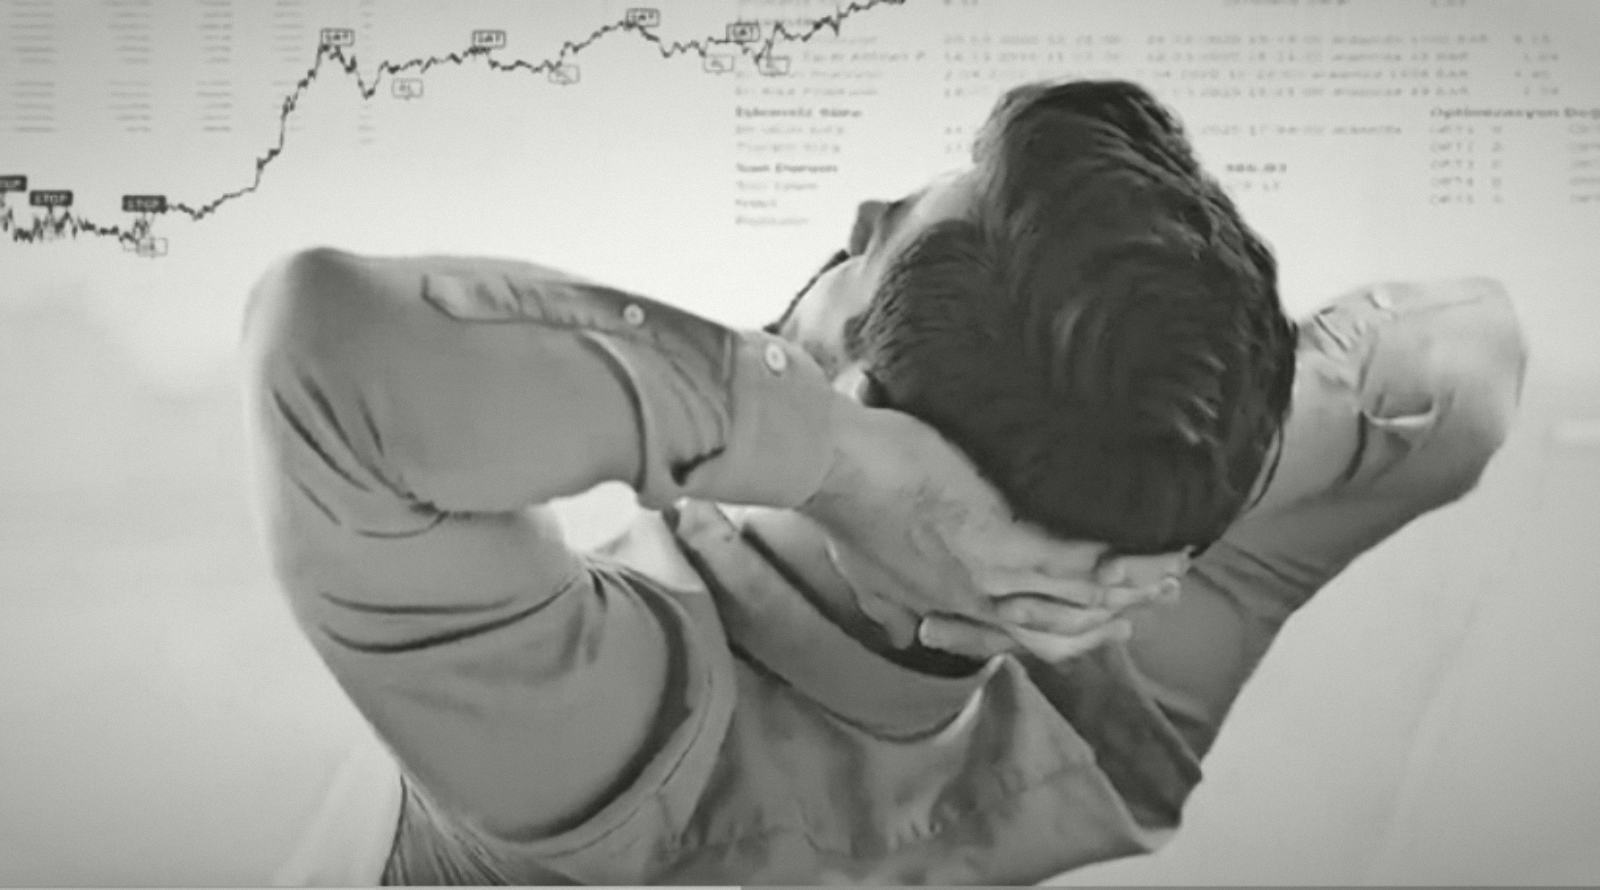
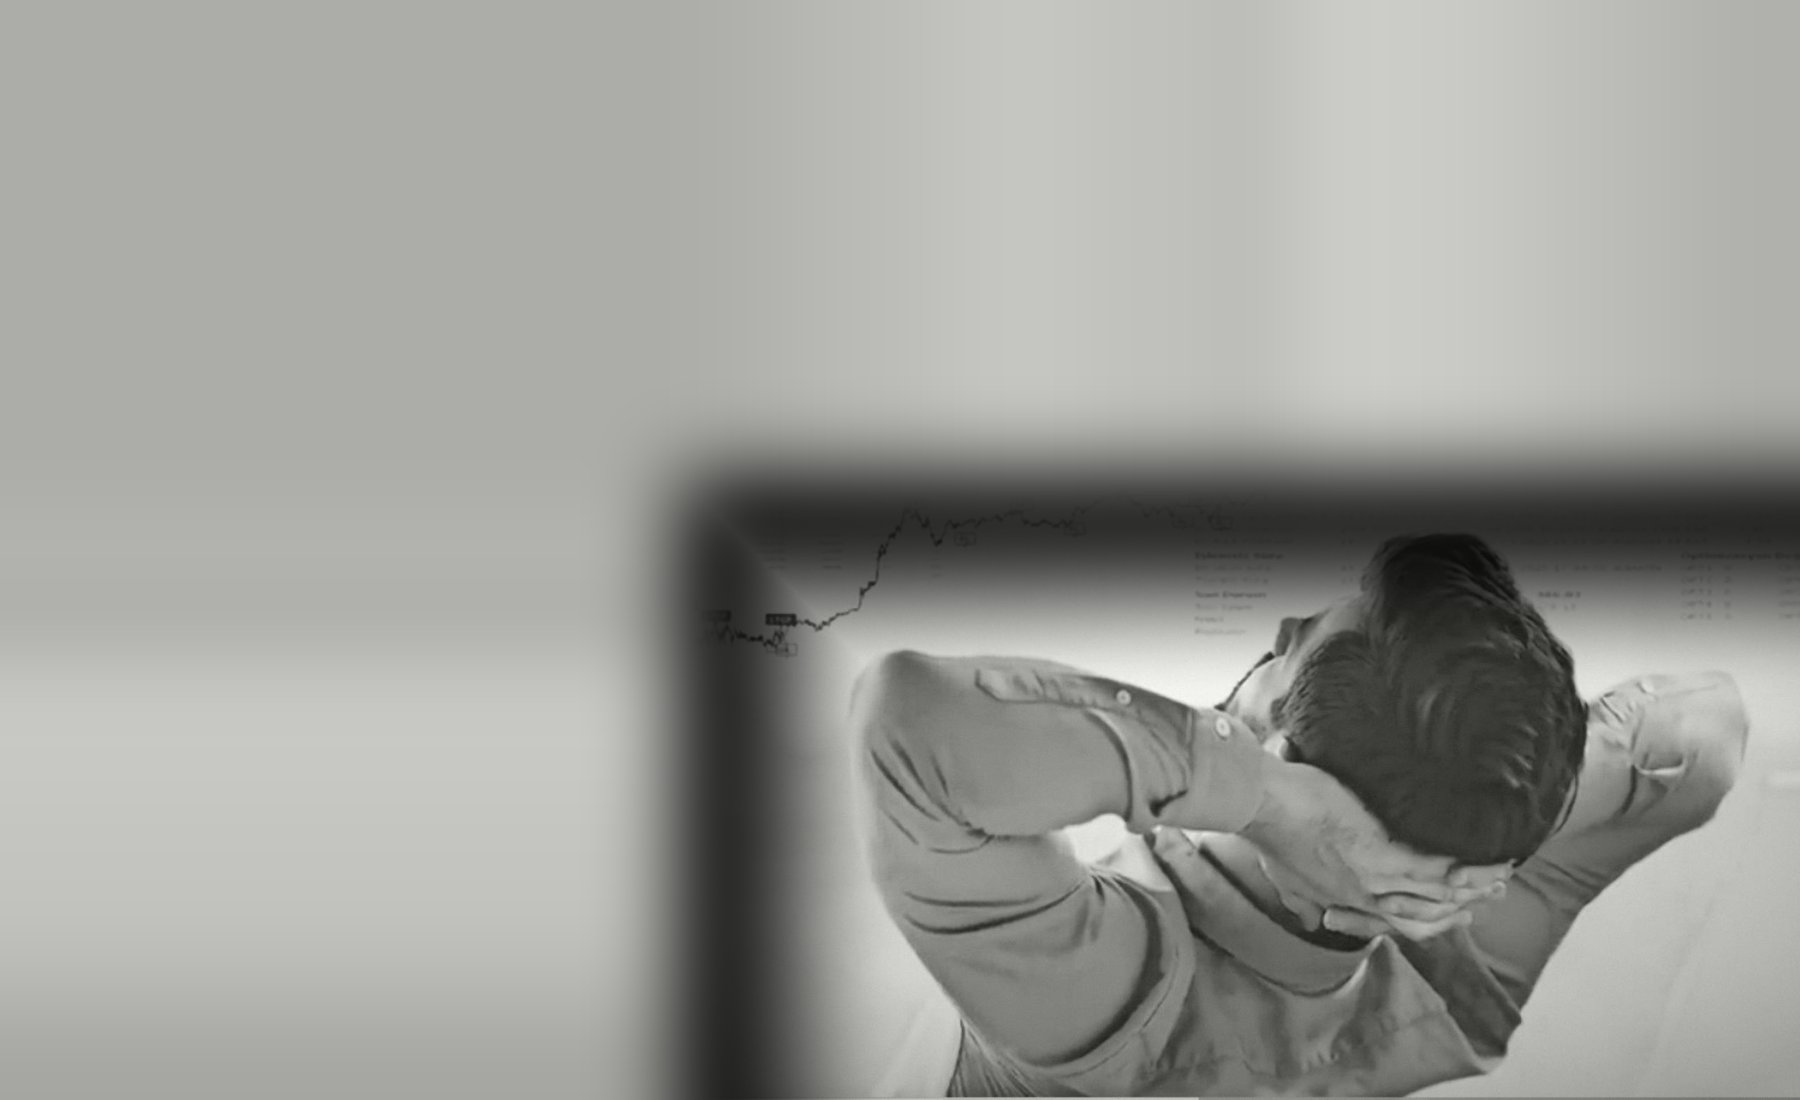
Hero fotoğrafı: adam küçültüldü (görselin kendisi), tüm sayfalarda ortak
Claude-Session: https://claude.ai/code/session_01W9xi1xhn2BrkuuhFqn4hW8

diff --git a/docs/theme.css b/docs/theme.css
@@ -8,7 +8,7 @@
 
 /* Sayfa üstü sahne (mini uygulama): fotoğraf kararıp zemine karışır */
 .stage{position:absolute;left:0;right:0;top:0;height:330px;z-index:-1;pointer-events:none;overflow:hidden;background:#0a0d14}
-.stage::before{content:"";position:absolute;inset:0;background:url(img/hero.jpg) 100% 0/125% auto no-repeat;filter:brightness(.58) contrast(1.1)}
+.stage::before{content:"";position:absolute;inset:0;background:url(img/hero.jpg) 100% 100%/cover no-repeat;filter:brightness(.58) contrast(1.1)}
 .stage::after{content:"";position:absolute;inset:0;
   background:linear-gradient(to bottom,rgba(10,13,20,.45) 0,rgba(10,13,20,.05) 38%,rgba(10,13,20,.78) 80%,#0a0d14 100%),
              linear-gradient(to right,rgba(10,13,20,.78) 0,rgba(10,13,20,.2) 55%,rgba(10,13,20,0) 100%)}
@@ -16,7 +16,7 @@
 /* Başlık bandı (dashboard, tarama) */
 .masthead{position:relative;isolation:isolate;overflow:hidden;border-radius:18px;margin-bottom:14px;padding:26px 22px 18px;min-height:168px;
   display:flex;flex-direction:column;justify-content:flex-end;gap:8px;color:#f3f5f8;background:#0a0d14}
-.masthead::before{content:"";position:absolute;inset:0;z-index:-2;background:url(img/hero.jpg) 66% 22%/cover no-repeat;filter:brightness(.6) contrast(1.1)}
+.masthead::before{content:"";position:absolute;inset:0;z-index:-2;background:url(img/hero.jpg) 80% 60%/cover no-repeat;filter:brightness(.6) contrast(1.1)}
 .masthead::after{content:"";position:absolute;inset:0;z-index:-1;
   background:linear-gradient(to right,rgba(10,13,20,.88) 0,rgba(10,13,20,.55) 45%,rgba(10,13,20,.08) 100%),
              linear-gradient(to top,rgba(10,13,20,.55),rgba(10,13,20,0) 55%)}
